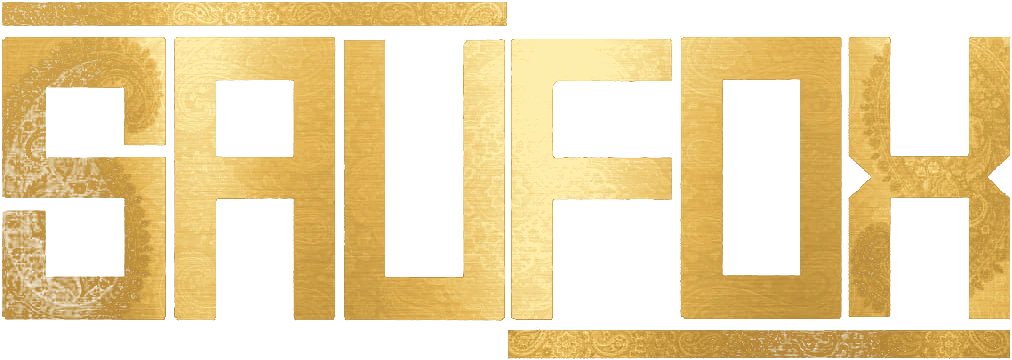
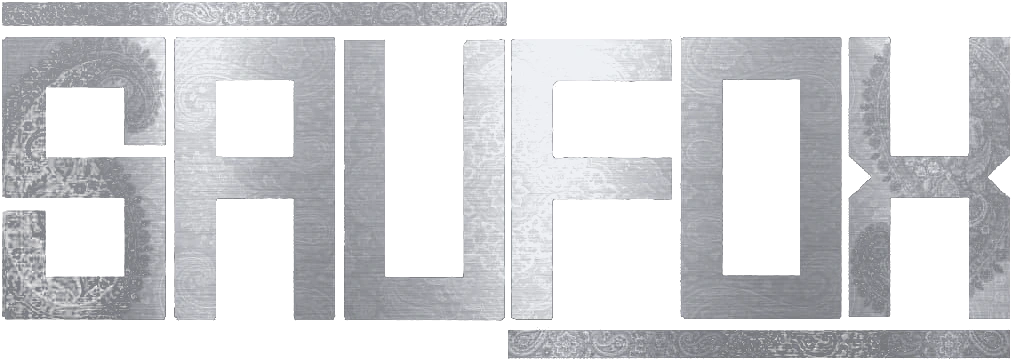
Header: SAUFOX wordmark in silver, larger
Claude-Session: https://claude.ai/code/session_01YF7TKpZrfXGtHemSirEq4W

diff --git a/status.html b/status.html
@@ -30,7 +30,7 @@
   <link rel="apple-touch-icon" href="assets/apple-touch-icon.png">
   <meta name="theme-color" content="#0f0f11">
   <link rel="preload" href="/assets/fonts/great-vibes.woff2" as="font" type="font/woff2" crossorigin>
-  <link rel="stylesheet" href="/css/style.css?v=75">
+  <link rel="stylesheet" href="/css/style.css?v=76">
 </head>
 <body class="status-page">
   <!-- Site status: status.html?reason=maintenance | offline | forbidden | error. js/main.js (statusPage) fills it in; maintenance and offline check again by themselves and go back when the site is up.
@@ -49,7 +49,7 @@
     <p class="status__hint" role="status" aria-live="polite"></p>
   </main>
 
-  <script src="/js/fa.js?v=75" defer></script>
-  <script src="/js/main.js?v=75" defer></script>
+  <script src="/js/fa.js?v=76" defer></script>
+  <script src="/js/main.js?v=76" defer></script>
 </body>
 </html>

diff --git a/launcher.html b/launcher.html
@@ -30,7 +30,7 @@
   <link rel="apple-touch-icon" href="assets/apple-touch-icon.png">
   <meta name="theme-color" content="#0f0f11">
   <link rel="preload" href="/assets/fonts/great-vibes.woff2" as="font" type="font/woff2" crossorigin>
-  <link rel="stylesheet" href="/css/style.css?v=75">
+  <link rel="stylesheet" href="/css/style.css?v=76">
 </head>
 <body class="status-page">
   <!-- Signs the SauFox launcher in: launcher.html?port=<port>&state=<state>.
@@ -51,8 +51,8 @@
     <p class="status__hint" role="status" aria-live="polite"></p>
   </main>
 
-  <script src="/js/vendor/supabase.js?v=75" defer></script>
-  <script src="/js/fa.js?v=75" defer></script>
-  <script src="/js/main.js?v=75" defer></script>
+  <script src="/js/vendor/supabase.js?v=76" defer></script>
+  <script src="/js/fa.js?v=76" defer></script>
+  <script src="/js/main.js?v=76" defer></script>
 </body>
 </html>

diff --git a/work.html b/work.html
@@ -41,7 +41,7 @@
   <meta name="twitter:card" content="summary_large_image">
   <link rel="preload" href="assets/fonts/great-vibes.woff2" as="font" type="font/woff2" crossorigin>
   <link rel="preload" href="assets/fonts/barlow-condensed-700i.woff2" as="font" type="font/woff2" crossorigin>
-  <link rel="stylesheet" href="css/style.css?v=75">
+  <link rel="stylesheet" href="css/style.css?v=76">
   <script>
     // Same header states as the home page (see index.html).
     (function () {
@@ -263,8 +263,8 @@
     </button>
   </div>
 
-  <script src="js/vendor/supabase.js?v=75" defer></script>
-  <script src="js/fa.js?v=75" defer></script>
-  <script src="js/main.js?v=75" defer></script>
+  <script src="js/vendor/supabase.js?v=76" defer></script>
+  <script src="js/fa.js?v=76" defer></script>
+  <script src="js/main.js?v=76" defer></script>
 </body>
 </html>

diff --git a/login.html b/login.html
@@ -32,7 +32,7 @@
   <meta name="robots" content="noindex">
   <link rel="preload" href="assets/fonts/great-vibes.woff2" as="font" type="font/woff2" crossorigin>
   <link rel="preload" href="assets/fonts/barlow-condensed-700i.woff2" as="font" type="font/woff2" crossorigin>
-  <link rel="stylesheet" href="css/style.css?v=75">
+  <link rel="stylesheet" href="css/style.css?v=76">
 </head>
 <body class="login-page">
   <!-- Background: slanted strips of artwork from the studio's releases,
@@ -198,8 +198,8 @@
     </p>
   </main>
 
-  <script src="js/vendor/supabase.js?v=75" defer></script>
-  <script src="js/fa.js?v=75" defer></script>
-  <script src="js/main.js?v=75" defer></script>
+  <script src="js/vendor/supabase.js?v=76" defer></script>
+  <script src="js/fa.js?v=76" defer></script>
+  <script src="js/main.js?v=76" defer></script>
 </body>
 </html>

diff --git a/checkout.html b/checkout.html
@@ -32,7 +32,7 @@
   <meta name="robots" content="noindex">
   <link rel="preload" href="assets/fonts/great-vibes.woff2" as="font" type="font/woff2" crossorigin>
   <link rel="preload" href="assets/fonts/barlow-condensed-700i.woff2" as="font" type="font/woff2" crossorigin>
-  <link rel="stylesheet" href="css/style.css?v=75">
+  <link rel="stylesheet" href="css/style.css?v=76">
   <script>
     // Same header states as the home page (see index.html).
     (function () {
@@ -229,8 +229,8 @@
     </div>
   </footer>
 
-  <script src="js/vendor/supabase.js?v=75" defer></script>
-  <script src="js/fa.js?v=75" defer></script>
-  <script src="js/main.js?v=75" defer></script>
+  <script src="js/vendor/supabase.js?v=76" defer></script>
+  <script src="js/fa.js?v=76" defer></script>
+  <script src="js/main.js?v=76" defer></script>
 </body>
 </html>

diff --git a/404.html b/404.html
@@ -30,7 +30,7 @@
   <link rel="apple-touch-icon" href="/assets/apple-touch-icon.png">
   <meta name="theme-color" content="#0f0f11">
   <link rel="preload" href="/assets/fonts/great-vibes.woff2" as="font" type="font/woff2" crossorigin>
-  <link rel="stylesheet" href="/css/style.css?v=75">
+  <link rel="stylesheet" href="/css/style.css?v=76">
 </head>
 <body class="status-page">
   <!-- GitHub Pages shows this for any address on the site that has no page. Same page as status.html, set to "404"; js/main.js (statusPage) fills it in.
@@ -49,7 +49,7 @@
     <p class="status__hint" role="status" aria-live="polite"></p>
   </main>
 
-  <script src="/js/fa.js?v=75" defer></script>
-  <script src="/js/main.js?v=75" defer></script>
+  <script src="/js/fa.js?v=76" defer></script>
+  <script src="/js/main.js?v=76" defer></script>
 </body>
 </html>

diff --git a/profile.html b/profile.html
@@ -32,7 +32,7 @@
   <meta name="robots" content="noindex">
   <link rel="preload" href="assets/fonts/great-vibes.woff2" as="font" type="font/woff2" crossorigin>
   <link rel="preload" href="assets/fonts/barlow-condensed-700i.woff2" as="font" type="font/woff2" crossorigin>
-  <link rel="stylesheet" href="css/style.css?v=75">
+  <link rel="stylesheet" href="css/style.css?v=76">
   <script>
     // Signed-out visitors go to the login page instead.
     try {
@@ -271,8 +271,8 @@
     </div>
   </footer>
 
-  <script src="js/vendor/supabase.js?v=75" defer></script>
-  <script src="js/fa.js?v=75" defer></script>
-  <script src="js/main.js?v=75" defer></script>
+  <script src="js/vendor/supabase.js?v=76" defer></script>
+  <script src="js/fa.js?v=76" defer></script>
+  <script src="js/main.js?v=76" defer></script>
 </body>
 </html>

diff --git a/css/style.css b/css/style.css
@@ -191,7 +191,7 @@ a {
   display: none;
 }
 
-/* ---------- Brand (the gold SAUFOX wordmark, assets/wordmark.webp) ---------- */
+/* ---------- Brand (the silver SAUFOX wordmark, assets/wordmark.webp) ---------- */
 
 .brand {
   grid-area: brand;
@@ -203,8 +203,8 @@ a {
 .brand img {
   display: block;
   width: auto;
-  height: 46px;
-  filter: drop-shadow(0 2px 10px rgba(230, 184, 74, 0.18));
+  height: 56px;
+  filter: drop-shadow(0 2px 10px rgba(0, 0, 0, 0.5));
 }
 
 /* Cursor blur (desktop only): a blurred copy of the logotype sits on top of
@@ -473,7 +473,7 @@ a {
   }
 
   .brand img {
-    height: 32px;
+    height: 40px;
   }
 
   .cta {
@@ -497,7 +497,7 @@ a {
 
 @media (max-width: 420px) {
   .brand img {
-    height: 28px;
+    height: 34px;
   }
 
   .cta {

diff --git a/index.html b/index.html
@@ -72,7 +72,7 @@
   </script>
   <link rel="preload" href="assets/fonts/great-vibes.woff2" as="font" type="font/woff2" crossorigin>
   <link rel="preload" href="assets/fonts/barlow-condensed-700i.woff2" as="font" type="font/woff2" crossorigin>
-  <link rel="stylesheet" href="css/style.css?v=75">
+  <link rel="stylesheet" href="css/style.css?v=76">
   <script>
     // Set the auth state before first paint so the header never flickers.
     // member    = signed in              -> profile chip, no CTA
@@ -288,7 +288,7 @@
     </div>
   </footer>
 
-  <script src="js/fa.js?v=75" defer></script>
-  <script src="js/main.js?v=75" defer></script>
+  <script src="js/fa.js?v=76" defer></script>
+  <script src="js/main.js?v=76" defer></script>
 </body>
 </html>

diff --git a/about.html b/about.html
@@ -46,7 +46,7 @@
   <meta name="twitter:card" content="summary_large_image">
   <link rel="preload" href="assets/fonts/great-vibes.woff2" as="font" type="font/woff2" crossorigin>
   <link rel="preload" href="assets/fonts/barlow-condensed-700i.woff2" as="font" type="font/woff2" crossorigin>
-  <link rel="stylesheet" href="css/style.css?v=75">
+  <link rel="stylesheet" href="css/style.css?v=76">
   <script>
     // Same header states as the home page (see index.html).
     (function () {
@@ -212,7 +212,7 @@
     </div>
   </footer>
 
-  <script src="js/fa.js?v=75" defer></script>
-  <script src="js/main.js?v=75" defer></script>
+  <script src="js/fa.js?v=76" defer></script>
+  <script src="js/main.js?v=76" defer></script>
 </body>
 </html>

diff --git a/browse.html b/browse.html
@@ -46,7 +46,7 @@
   <meta name="twitter:card" content="summary_large_image">
   <link rel="preload" href="assets/fonts/great-vibes.woff2" as="font" type="font/woff2" crossorigin>
   <link rel="preload" href="assets/fonts/barlow-condensed-700i.woff2" as="font" type="font/woff2" crossorigin>
-  <link rel="stylesheet" href="css/style.css?v=75">
+  <link rel="stylesheet" href="css/style.css?v=76">
   <script>
     // Same header states as the home page (see index.html).
     (function () {
@@ -187,7 +187,7 @@
     </div>
   </footer>
 
-  <script src="js/fa.js?v=75" defer></script>
-  <script src="js/main.js?v=75" defer></script>
+  <script src="js/fa.js?v=76" defer></script>
+  <script src="js/main.js?v=76" defer></script>
 </body>
 </html>

diff --git a/faq.html b/faq.html
@@ -46,7 +46,7 @@
   <meta name="twitter:card" content="summary_large_image">
   <link rel="preload" href="assets/fonts/great-vibes.woff2" as="font" type="font/woff2" crossorigin>
   <link rel="preload" href="assets/fonts/barlow-condensed-700i.woff2" as="font" type="font/woff2" crossorigin>
-  <link rel="stylesheet" href="css/style.css?v=75">
+  <link rel="stylesheet" href="css/style.css?v=76">
   <script>
     // Same header states as the home page (see index.html).
     (function () {
@@ -297,7 +297,7 @@
     </div>
   </footer>
 
-  <script src="js/fa.js?v=75" defer></script>
-  <script src="js/main.js?v=75" defer></script>
+  <script src="js/fa.js?v=76" defer></script>
+  <script src="js/main.js?v=76" defer></script>
 </body>
 </html>
